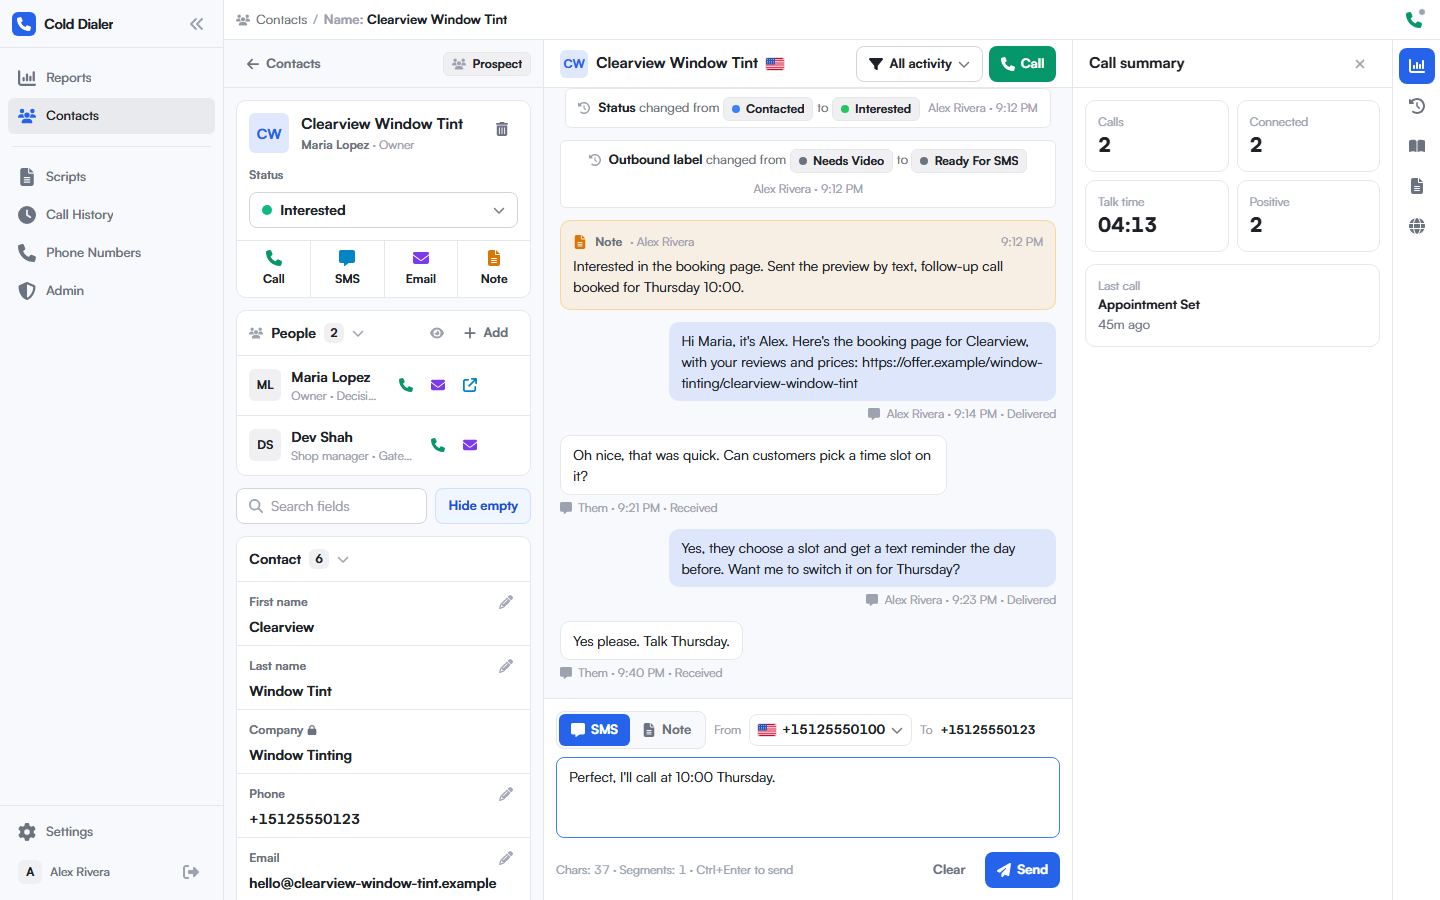
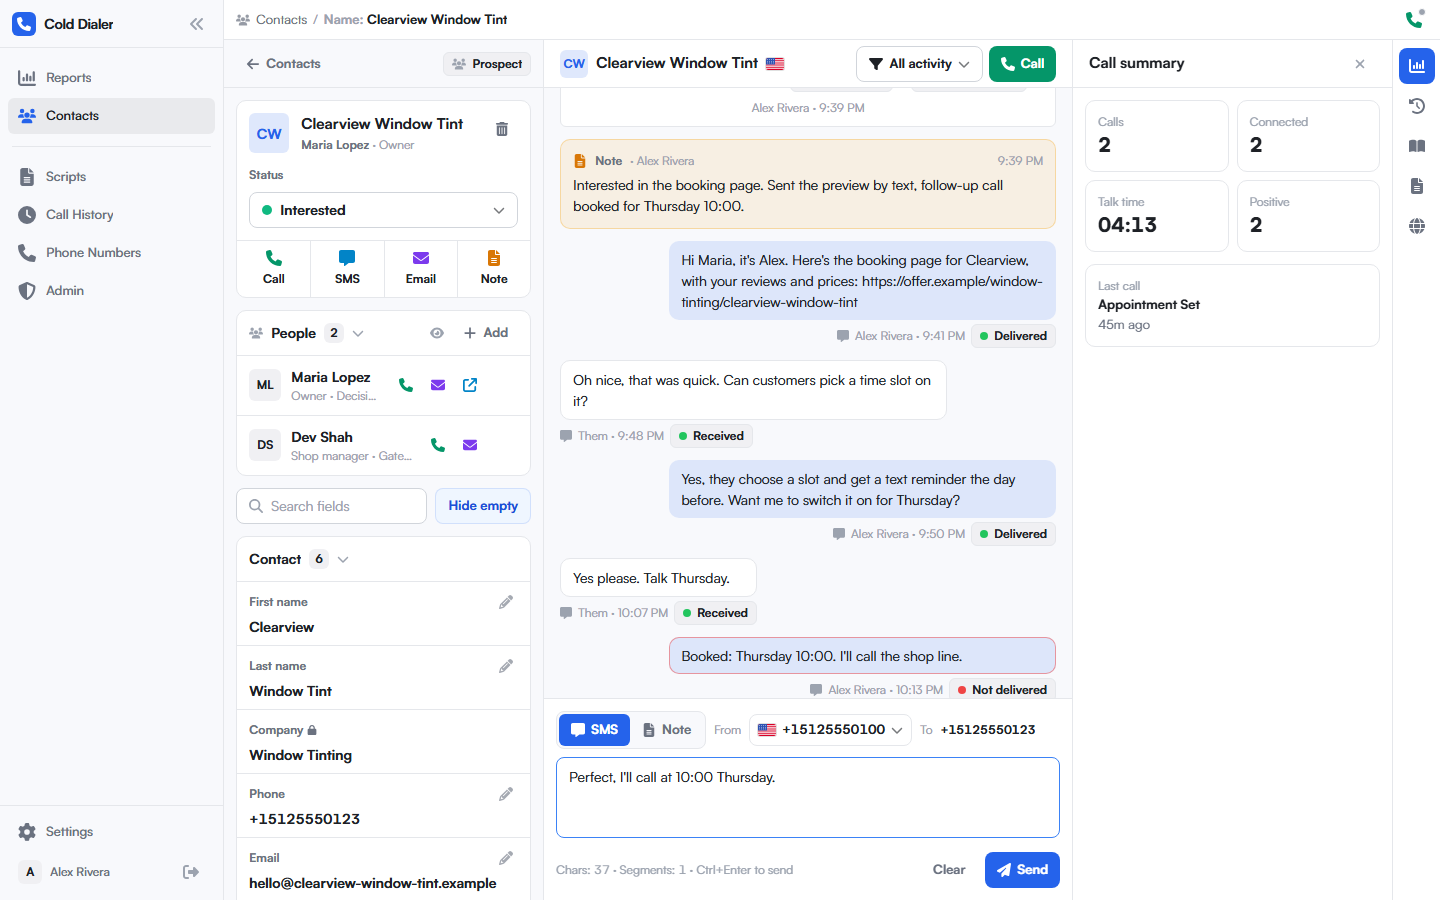
feat(messaging): text status and failure reason as pills
A text's status and failure reason were plain words, unlike every other
status in the app. Both the text bubble and the contact's history now
show them as the same dotted pills the history uses: green for delivered
and received, blue for sent, grey while queued, red for not delivered or
not sent, and the Telnyx reason ("Not 10DLC registered (40010)") as a
red pill. One table (messaging/textStatus) gives both the words and the
colours. The demo numbers are marked 10DLC registered.

Changed region(s): [[0.375, 0.0933, 0.75, 0.7778]]

diff --git a/backend/src/lib/demo/records/demoRecords.ts b/backend/src/lib/demo/records/demoRecords.ts
@@ -182,10 +182,10 @@ export function buildDemoRecords(now: Date = new Date()): DemoRecords {
   ];
 
   const agencyPhones = [
-    { id: demoId(4, 1), name: "Austin main line", phoneNumber: "+15125550100", countryCode: "US", numberType: "LONG_CODE", state: "ACTIVE", callState: "IDLE", messagingProfileId: "demo-profile", lastSyncedAt: t(2 * HOUR), createdAt: t(40 * DAY), updatedAt: t(2 * HOUR) },
-    { id: demoId(4, 2), name: "Denver line", phoneNumber: "+13035550100", countryCode: "US", numberType: "LONG_CODE", state: "ACTIVE", callState: "ACTIVE", claimedByMemberId: sam.id, claimedByEmail: sam.email, claimedAt: t(3 * MINUTE), lastHeartbeatAt: t(2_000), messagingProfileId: "demo-profile", lastSyncedAt: t(2 * HOUR), createdAt: t(40 * DAY), updatedAt: t(3 * MINUTE) },
-    { id: demoId(4, 3), name: "Portland line", phoneNumber: "+15035550100", countryCode: "US", numberType: "LONG_CODE", state: "PAUSED", callState: "IDLE", messagingProfileId: "demo-profile", lastSyncedAt: t(1 * DAY), createdAt: t(40 * DAY), updatedAt: t(1 * DAY) },
-    { id: demoId(4, 4), name: "Toll-free", phoneNumber: "+18885550100", countryCode: "US", numberType: "TOLL_FREE", state: "ACTIVE", callState: "IDLE", messagingProfileId: "demo-profile", lastSyncedAt: t(2 * HOUR), createdAt: t(40 * DAY), updatedAt: t(2 * HOUR) },
+    { id: demoId(4, 1), name: "Austin main line", phoneNumber: "+15125550100", countryCode: "US", numberType: "LONG_CODE", state: "ACTIVE", callState: "IDLE", messagingProfileId: "demo-profile", tenDlcCampaignId: "demo-10dlc", lastSyncedAt: t(2 * HOUR), createdAt: t(40 * DAY), updatedAt: t(2 * HOUR) },
+    { id: demoId(4, 2), name: "Denver line", phoneNumber: "+13035550100", countryCode: "US", numberType: "LONG_CODE", state: "ACTIVE", callState: "ACTIVE", claimedByMemberId: sam.id, claimedByEmail: sam.email, claimedAt: t(3 * MINUTE), lastHeartbeatAt: t(2_000), messagingProfileId: "demo-profile", tenDlcCampaignId: "demo-10dlc", lastSyncedAt: t(2 * HOUR), createdAt: t(40 * DAY), updatedAt: t(3 * MINUTE) },
+    { id: demoId(4, 3), name: "Portland line", phoneNumber: "+15035550100", countryCode: "US", numberType: "LONG_CODE", state: "PAUSED", callState: "IDLE", messagingProfileId: "demo-profile", tenDlcCampaignId: "demo-10dlc", lastSyncedAt: t(1 * DAY), createdAt: t(40 * DAY), updatedAt: t(1 * DAY) },
+    { id: demoId(4, 4), name: "Toll-free", phoneNumber: "+18885550100", countryCode: "US", numberType: "TOLL_FREE", state: "ACTIVE", callState: "IDLE", messagingProfileId: "demo-profile", tenDlcCampaignId: "demo-10dlc", lastSyncedAt: t(2 * HOUR), createdAt: t(40 * DAY), updatedAt: t(2 * HOUR) },
   ];
 
   const agencyProspects = PROSPECTS.map(([name, city, region, country, niche, label, phone, rating, reviewCount, status, campaign], i) => {

diff --git a/frontend/src/domains/contact/feed/contactFeed.tsx b/frontend/src/domains/contact/feed/contactFeed.tsx
@@ -39,6 +39,8 @@ import { useContactTexts, useSendText } from "@/domains/messaging/thread";
 import type { TextMessage } from "@/domains/api/client";
 import { useToast } from "@/domains/ui/toast";
 import { describeError } from "@/domains/feedback/describeError";
+import { isTextFailed, textStatusColor, textStatusLabel } from "@/domains/messaging/textStatus";
+import { twentyDotClass } from "@/domains/twenty/options";
 
 export type ComposerMode = "sms" | "note";
 
@@ -266,24 +268,11 @@ function CallItem({ call }: { call: any }) {
   );
 }
 
-const TEXT_STATUS: Record<string, string> = {
-  sending: "Sending",
-  queued: "Queued",
-  sent: "Sent",
-  delivered: "Delivered",
-  delivery_unconfirmed: "Sent, delivery unconfirmed",
-  received: "Received",
-  sending_failed: "Failed to send",
-  delivery_failed: "Not delivered",
-  not_sent: "Not sent",
-};
-const TEXT_FAILED = new Set(["sending_failed", "delivery_failed", "not_sent", "failed"]);
-
 /** One text as a chat bubble: ours on the right in the brand tint, theirs on the left. */
 function TextItem({ text }: { text: TextMessage }) {
   const ours = text.direction === "OUTBOUND";
-  const failed = TEXT_FAILED.has(text.status ?? "");
-  const status = text.status ? (TEXT_STATUS[text.status] ?? text.status) : null;
+  const failed = isTextFailed(text.status);
+  const status = textStatusLabel(text.status);
   return (
     <div className={`flex ${ours ? "justify-end" : "justify-start"}`}>
       <div className="max-w-[78%]">
@@ -296,11 +285,12 @@ function TextItem({ text }: { text: TextMessage }) {
         >
           {text.body}
         </div>
-        <div className={`mt-1 flex items-center gap-1.5 text-[12px] ${ours ? "justify-end" : ""} ${failed ? "text-red-600" : "text-[var(--ods-text-tertiary)]"}`}>
+        <div className={`mt-1 flex flex-wrap items-center gap-1.5 text-[12px] text-[var(--ods-text-tertiary)] ${ours ? "justify-end" : ""}`}>
           <MessageSquare className="w-3 h-3" />
-          <span>{[ours ? text.author || "You" : "Them", text.at ? time(text.at) : null, status].filter(Boolean).join(" · ")}</span>
+          <span>{[ours ? text.author || "You" : "Them", text.at ? time(text.at) : null].filter(Boolean).join(" · ")}</span>
+          {status && <Chip dot={twentyDotClass(textStatusColor(text.status))}>{status}</Chip>}
+          {failed && text.error && <Chip dot={twentyDotClass("red")}>{text.error}</Chip>}
         </div>
-        {failed && text.error && <div className={`mt-0.5 text-[12px] text-red-600 ${ours ? "text-right" : ""}`}>{text.error}</div>}
       </div>
     </div>
   );

diff --git a/frontend/src/domains/activity/historyFormat/historyFormat.ts b/frontend/src/domains/activity/historyFormat/historyFormat.ts
@@ -1,5 +1,6 @@
 import { parseNotes } from "@/domains/contact/notes";
 import { twentyDotClass, type TwentyOption } from "@/domains/twenty/options";
+import { textStatusColor, textStatusLabel } from "@/domains/messaging/textStatus";
 import type { AdminActivity, AdminActivityResponse, AdminObject } from "@/domains/admin/data";
 
 /*
@@ -258,12 +259,6 @@ const RELATED_QUIET = new Set([
   "startedAt", "endedAt", "durationSeconds", "direction", "errorCode",
 ]);
 
-/** Telnyx's status words for a text, as people say them. */
-const TEXT_STATUS: Record<string, string> = {
-  queued: "Queued", sending: "Sending", sent: "Sent", delivered: "Delivered", received: "Received",
-  delivery_unconfirmed: "Delivery unconfirmed", sending_failed: "Failed to send", delivery_failed: "Not delivered",
-};
-
 /**
  * `main`: the record whose history this is. Events on related records (its
  * calls, its texts) are named after them: "Call disposition", "Text sent",
@@ -298,9 +293,15 @@ export function historyRows(
       if (related && RELATED_QUIET.has(c.field)) continue;
       if (related) {
         const id = `${e.id}:${c.field}`;
+        // A text's status and failure reason are pills, like every other status in history.
         const isTextStatus = e.object === "message" && c.field === "status";
-        const show = (v: unknown): Display =>
-          isTextStatus && typeof v === "string" && TEXT_STATUS[v.toLowerCase()] ? { kind: "text", text: TEXT_STATUS[v.toLowerCase()] } as Display : displayValue(c.field, v, {});
+        const isTextError = e.object === "message" && c.field === "errorMessage";
+        const show = (v: unknown): Display => {
+          if (typeof v !== "string" || !v) return displayValue(c.field, v, {});
+          if (isTextStatus) return { kind: "option", text: textStatusLabel(v) ?? v, dot: twentyDotClass(textStatusColor(v)) };
+          if (isTextError) return { kind: "option", text: v, dot: twentyDotClass("red") };
+          return displayValue(c.field, v, {});
+        };
         const before = show(c.before);
         const after = show(c.after);
         if (after.kind === "blank" && before.kind === "blank") continue;

diff --git a/frontend/src/domains/messaging/textStatus/textStatus.ts b/frontend/src/domains/messaging/textStatus/textStatus.ts
@@ -1,0 +1,30 @@
+/**
+ * A text's status in Telnyx's words -> how people say it and its colour.
+ * One table for the text bubble and the history pills, so they agree.
+ */
+const STATUS: Record<string, { label: string; color: "gray" | "blue" | "green" | "red" | "yellow" }> = {
+  sending: { label: "Sending", color: "gray" },
+  queued: { label: "Queued", color: "gray" },
+  sent: { label: "Sent", color: "blue" },
+  delivered: { label: "Delivered", color: "green" },
+  received: { label: "Received", color: "green" },
+  delivery_unconfirmed: { label: "Delivery unconfirmed", color: "yellow" },
+  sending_failed: { label: "Failed to send", color: "red" },
+  delivery_failed: { label: "Not delivered", color: "red" },
+  not_sent: { label: "Not sent", color: "red" },
+  failed: { label: "Failed", color: "red" },
+};
+
+export function textStatusLabel(status: string | null | undefined): string | null {
+  if (!status) return null;
+  return STATUS[status.toLowerCase()]?.label ?? status;
+}
+
+/** A Twenty colour name (twentyDotClass turns it into the dot). */
+export function textStatusColor(status: string | null | undefined): string {
+  return STATUS[String(status ?? "").toLowerCase()]?.color ?? "gray";
+}
+
+export function isTextFailed(status: string | null | undefined): boolean {
+  return textStatusColor(status) === "red";
+}

diff --git a/scripts/screenshots/apiFixtures.ts b/scripts/screenshots/apiFixtures.ts
@@ -181,6 +181,7 @@ export function respond(method: string, url: URL, pageUrl: string): FixtureRespo
         theirs("Oh nice, that was quick. Can customers pick a time slot on it?", 31),
         ours("Yes, they choose a slot and get a text reminder the day before. Want me to switch it on for Thursday?", 29, "delivered"),
         theirs("Yes please. Talk Thursday.", 12),
+        { ...ours("Booked: Thursday 10:00. I'll call the shop line.", 6, "delivery_failed"), error: "Not 10DLC registered (40010)" },
       ],
     });
   }

diff --git a/frontend/src/domains/activity/historyFormat/historyFormat.test.ts b/frontend/src/domains/activity/historyFormat/historyFormat.test.ts
@@ -80,5 +80,6 @@ test("a contact's history names its texts and says why one failed", () => {
   );
   const labels = rows.map((r) => r.label);
   assert.deepEqual(labels, ["Text failure reason", "Text status", "Text sent"]);
-  assert.equal(rows[1].after.kind === "text" && rows[1].after.text, "Not delivered");
+  assert.equal(rows[1].after.kind === "option" && rows[1].after.text, "Not delivered");
+  assert.equal(rows[0].after.kind, "option");
 });

diff --git a/frontend/src/domains/messaging/textStatus/index.ts b/frontend/src/domains/messaging/textStatus/index.ts
@@ -1,0 +1,2 @@
+// Public surface of messaging/textStatus. Other modules import from here, never from a file inside.
+export * from "./textStatus";
